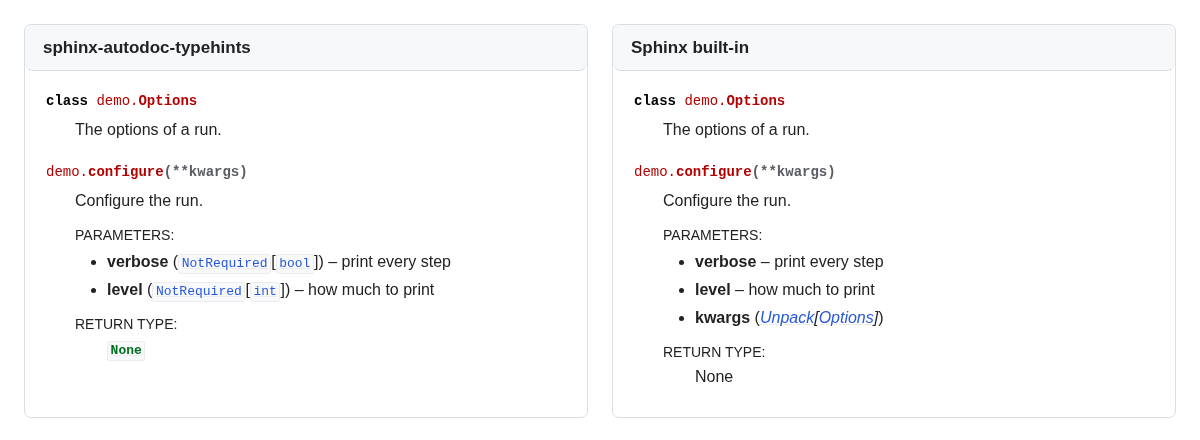
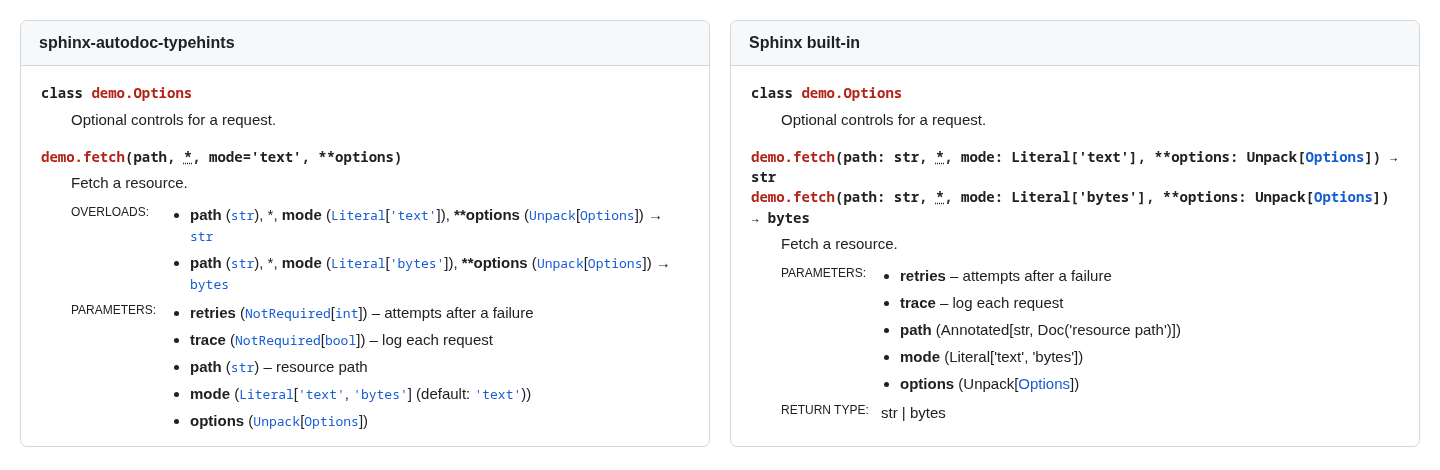
📝 docs: expand comparison example

diff --git a/README.md b/README.md
@@ -34,35 +34,53 @@ Sphinx's
 already moves annotations into the parameter and return fields, links them, and works with napoleon docstrings and type
 comments. If your annotations resolve at runtime and you use Sphinx fields or napoleon, that setting may be enough.
 
-The same `demo.py` below renders differently with each option. Both builds use `.. automodule:: demo` with `:members:`;
-the left uses the configuration above, while the right loads only `sphinx.ext.autodoc` with
+The same `demo.py` below renders differently with each option. It uses `typing-extensions` for `Doc`. Both builds use
+`.. automodule:: demo` with `:members:`. The left adds `typehints_defaults = "braces"` and
+`always_document_param_types = True` to the configuration above; the right loads only `sphinx.ext.autodoc` with
 `autodoc_typehints = "description"`.
 
 ```python
-from typing import TypedDict, Unpack
+from __future__ import annotations
+
+from typing import Annotated, Literal, NotRequired, TypedDict, Unpack, overload
+
+from typing_extensions import Doc
 
 
-class Options(TypedDict, total=False):
-    """The options of a run."""
+class Options(TypedDict):
+    """Optional controls for a request."""
 
-    verbose: bool
-    level: int
+    retries: NotRequired[int]
+    trace: NotRequired[bool]
 
 
-def configure(**kwargs: Unpack[Options]) -> None:
+@overload
+def fetch(path: str, *, mode: Literal["text"], **options: Unpack[Options]) -> str: ...
+
+
+@overload
+def fetch(path: str, *, mode: Literal["bytes"], **options: Unpack[Options]) -> bytes: ...
+
+
+def fetch(
+    path: Annotated[str, Doc("resource path")],
+    *,
+    mode: Literal["text", "bytes"] = "text",
+    **options: Unpack[Options],
+) -> str | bytes:
+    """Fetch a resource.
+
+    :keyword retries: attempts after a failure
+    :keyword trace: log each request
     """
-    Configure the run.
-
-    :keyword verbose: print every step
-    :keyword level: how much to print
-    """
+    return "" if mode == "text" else b""
 ```
 
-![Side-by-side Sphinx output: this extension adds NotRequired types to verbose and level; Sphinx's built-in output leaves them untyped and adds a kwargs entry.](docs/_static/sphinx-comparison.png)
+![Side-by-side Sphinx output for overloads, Annotated descriptions, and TypedDict keyword types.](docs/_static/sphinx-comparison.png)
 
 The
-[live example](https://sphinx-autodoc-typehints.readthedocs.io/en/latest/concepts.html#keyword-arguments-from-a-typeddict)
-lets you inspect the rendered text and configuration. Beyond this example, this extension adds:
+[live TypedDict example](https://sphinx-autodoc-typehints.readthedocs.io/en/latest/concepts.html#keyword-arguments-from-a-typeddict)
+lets you change the configuration and inspect its output. See the examples for each difference:
 
 - [Names imported under `if TYPE_CHECKING:`](https://sphinx-autodoc-typehints.readthedocs.io/en/latest/typing.html#type-checking-imports)
   link to their real module (`decimal.Decimal`, not a bare `Decimal`).
@@ -70,6 +88,8 @@ lets you inspect the rendered text and configuration. Beyond this example, this 
   functions that carry no annotations, such as those of a C extension.
 - [`**kwargs: Unpack[TypedDict]`](https://sphinx-autodoc-typehints.readthedocs.io/en/latest/typing.html#kwargs-typed-with-unpack)
   gets keyword fields typed from the `TypedDict` entries.
+- [`Annotated[..., Doc(...)]`](https://sphinx-autodoc-typehints.readthedocs.io/en/latest/typing.html#doc) puts
+  descriptions from annotations into the parameter fields.
 - [numpydoc `Parameters` sections](https://sphinx-autodoc-typehints.readthedocs.io/en/latest/how-to.html#use-with-numpydoc)
   get types in place, rather than in a second list.
 - [`@overload` variants](https://sphinx-autodoc-typehints.readthedocs.io/en/latest/typing.html#overload) get an
